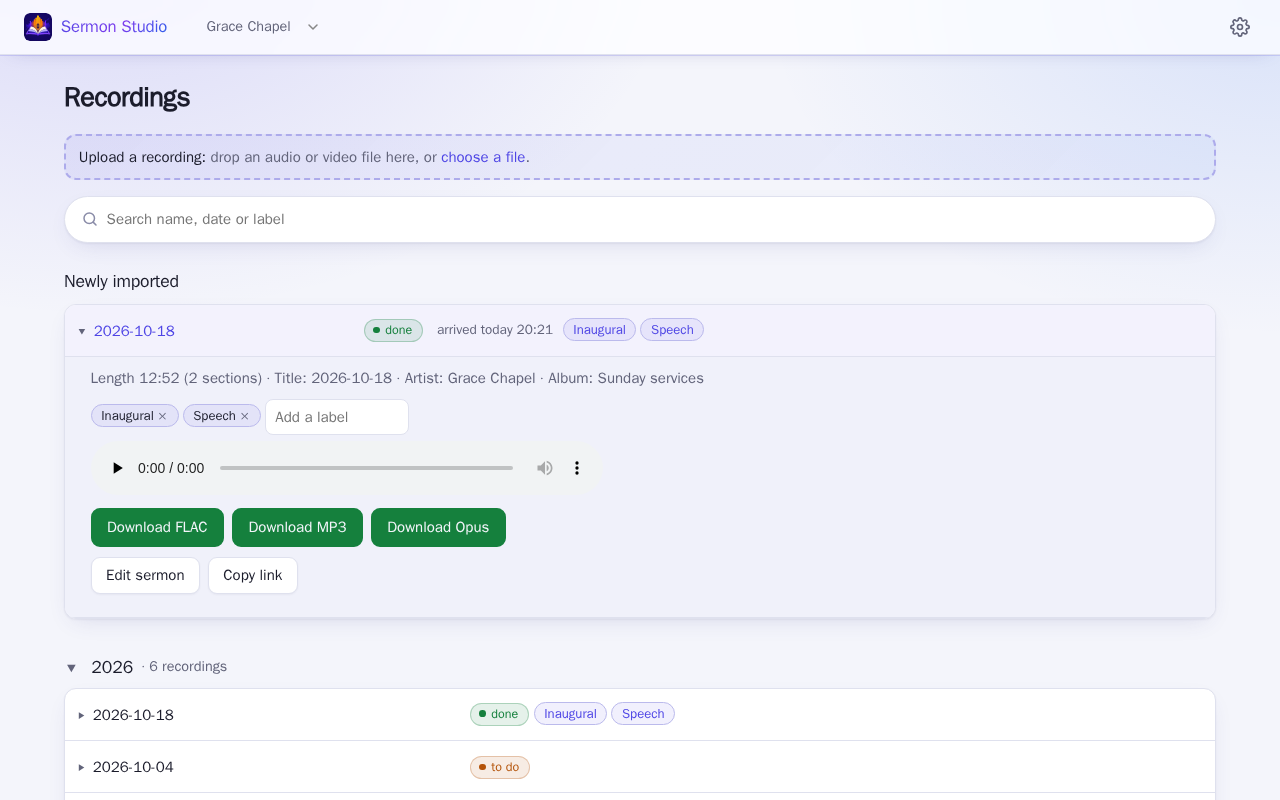
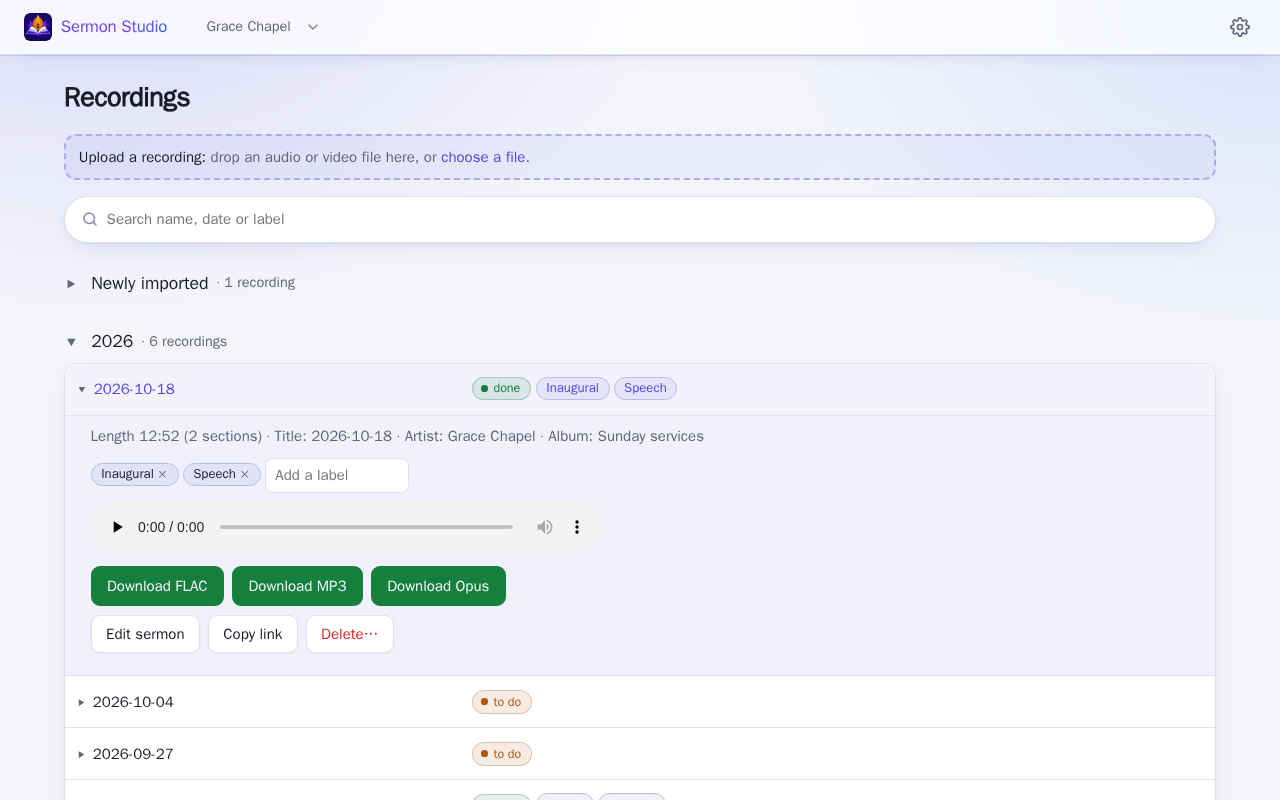
Recordings: Newly imported folds like a year, shut at first (#41)
The heading is the same button as a year's, with the count; the browser
remembers it per church with the open years.

diff --git a/web/static/recordings.js b/web/static/recordings.js
@@ -1,6 +1,6 @@
 // The recordings page: every recording of the church in one list. The ones that
 // arrived lately on top ("Newly imported"), then the years, each folded open
-// on its own; a search field over names, dates and labels. A row opens the
+// on its own like the new ones; a search field over names, dates and labels. A row opens the
 // details of the recording (sermons.js) right where it is.
 import { api, h, debounce, formatDate, formatDateTime } from './util.js';
 import { sermonDetail } from './sermons.js';
@@ -46,7 +46,9 @@ export async function recordingsView(view, { top, church, emptyNote }) {
   const all = data.recordings;
   const newMs = data.newFor * 1000;
 
-  // Which years are open is the browser's, per church; the newest one at first.
+  // Which groups are open is the browser's, per church: the years by number,
+  // the newly imported as NEW. At first only the newest year is.
+  const NEW = 'new';
   const storeKey = 'openYears:' + church;
   const stored = JSON.parse(localStorage.getItem(storeKey) || 'null');
   const openYears = new Set(stored ?? (all.length ? [yearOf(all[0])] : []));
@@ -105,17 +107,19 @@ export async function recordingsView(view, { top, church, emptyNote }) {
 
   const table = (entries, opts) => h('table', { class: 'list' }, h('tbody', {}, entries.map((e) => row(e, opts))));
 
-  function yearSection(year, entries) {
-    const sec = h('section', { class: 'year' });
+  // group is a heading that folds its recordings open and shut: a year, or the
+  // newly imported (cls 'recent', rows with when they came).
+  function group(key, title, entries, { cls = 'year', when = false } = {}) {
+    const sec = h('section', { class: cls });
     const draw = () => {
-      const open = openYears.has(year);
+      const open = openYears.has(key);
       sec.replaceChildren(
         h('button', { class: 'year-head', 'aria-expanded': String(open), onclick: () => {
-          if (open) openYears.delete(year); else openYears.add(year);
+          if (open) openYears.delete(key); else openYears.add(key);
           remember();
           draw();
-        } }, h('span', { class: 'tw' }, open ? '▾' : '▸'), year, h('span', { class: 'muted' }, ` · ${tn(entries.length, '{n} recording', '{n} recordings')}`)),
-        open ? table(entries, { register: true }) : '');
+        } }, h('span', { class: 'tw' }, open ? '▾' : '▸'), title, h('span', { class: 'muted' }, ` · ${tn(entries.length, '{n} recording', '{n} recordings')}`)),
+        open ? table(entries, when ? { when } : { register: true }) : '');
     };
     draw();
     return sec;
@@ -150,8 +154,8 @@ export async function recordingsView(view, { top, church, emptyNote }) {
       years.get(yearOf(e)).push(e);
     }
     list.replaceChildren(
-      lately.length ? h('section', { class: 'recent' }, h('h2', {}, t('Newly imported')), table(lately, { when: true })) : '',
-      ...[...years].map(([year, entries]) => yearSection(year, entries)));
+      lately.length ? group(NEW, t('Newly imported'), lately, { cls: 'recent', when: true }) : '',
+      ...[...years].map(([year, entries]) => group(year, year, entries)));
   }
 
   const input = h('input', { type: 'search', name: 'search', class: 'search', placeholder: t('Search name, date or label'),

diff --git a/web/e2e/tests/web.spec.js b/web/e2e/tests/web.spec.js
@@ -568,13 +568,20 @@ test('upload straight into a new date folder, in chunks', async ({ page }) => {
   expect(fs.readFileSync(path.join(dir, '2026-09-27_raw.flac')).equals(fs.readFileSync(path.join(DATA, 'upload.flac')))).toBe(true);
   // It is on top of the first page, among the new ones, and opens there.
   await page.locator('a.brand').click();
+  // Folded at first, like a year that is not the newest; opened, it stays open.
   const recent = page.locator('section.recent');
-  await expect(recent.getByRole('heading', { name: 'Newly imported' })).toBeVisible();
+  const head = recent.getByRole('button', { name: /Newly imported/ });
+  await expect(head).toHaveAttribute('aria-expanded', 'false');
+  await expect(recent.locator('tr')).toHaveCount(0);
+  await head.click();
+  await expect(head).toHaveAttribute('aria-expanded', 'true');
   const row = recent.locator('tr', { hasText: '2026-09-27' });
   await expect(row).toContainText('arrived today');
   await row.getByRole('button', { name: '2026-09-27', exact: true }).click();
   await expect(recent.getByRole('link', { name: 'Open in the editor' })).toBeVisible();
   await page.screenshot({ path: path.join(shots, 'folders-new.png') });
+  await page.reload();
+  await expect(recent.locator('tr', { hasText: '2026-09-27' })).toBeVisible();
   // The date now has a recording: a second upload to it is refused.
   await page.locator('input[type=file]').setInputFiles({ name: 'again 2026-09-27.flac', mimeType: 'audio/flac', buffer: Buffer.from('x') });
   await page.getByRole('button', { name: 'Upload' }).click();

diff --git a/web/static/style.css b/web/static/style.css
@@ -277,7 +277,7 @@ pre.log { max-height: 14rem; overflow: auto; background: var(--bg); border: 1px 
   background: linear-gradient(135deg, color-mix(in srgb, #4f46e5 7%, transparent), color-mix(in srgb, #2563eb 5%, transparent)); transition: border-color 0.15s, background 0.15s, box-shadow 0.15s; }
 .drop.over { border-color: var(--accent); color: var(--fg); background: color-mix(in srgb, var(--accent) 14%, transparent); box-shadow: 0 0 0 4px color-mix(in srgb, var(--accent) 18%, transparent); }
 /* Newly imported recordings, above the years. */
-.recent { margin-bottom: 1.5rem; }
+.recent { margin: 0 0 0.8rem; }
 .recent .arrived { margin: 0 0.6rem; font-size: 0.9em; white-space: nowrap; }
 /* The recordings page: search, years, labels. */
 .searchbar { margin: 0 0 1rem; }

diff --git a/docs/guide.md b/docs/guide.md
@@ -54,7 +54,7 @@ Each can have a label, which shows on the waveform.
 ## In detail
 
 - **Recordings** (the one page, `#/<church>`): the upload, a search field, **Newly imported** (arrived in the last 7 days, newest
-  first, with when), then the years, each folded open on its own (the newest at first; the browser remembers). A row opens the
+  first, with when; folded at first), then the years, each folded open on its own (the newest at first; the browser remembers). A row opens the
   recording's details in place. **Labels** are your own tags on a recording ("Easter", "guest speaker": up to 10, 30 characters; added with the + button, Enter or a comma, or picked from the labels already in use;
   removed with the × on the pill, kept as `labels` in `recording.json`, not written into the files). The search matches name, date and labels
   in every year at once (all words must match); a label on a row searches for it. **Copy link** gives the address of one recording,
@@ -139,7 +139,7 @@ Each can have a label, which shows on the waveform.
   another cut than the saved one) when Save has more to do; *converting*, *preparing* and
   *processing* while the server works on it.
 - **Newly imported:** a recording that arrived (upload, inbox, share) in the last 7 days is also listed
-  on top of the first page, with when it came; the import time is kept in its `recording.json`.
+  on top of the first page, with when it came. It folds open and shut like a year and is shut at first; the import time is kept in its `recording.json`.
 - **Upload** (at the top of the recordings page): drop or pick the recording and its date (suggested from the file name or the file's
   date); it goes straight into the date folder (`<year>/<date>/<date>_raw.*`, see `--layout`).
   Uploads are sent in chunks, so they pass proxies that limit request size (Cloudflare: 100 MB)
